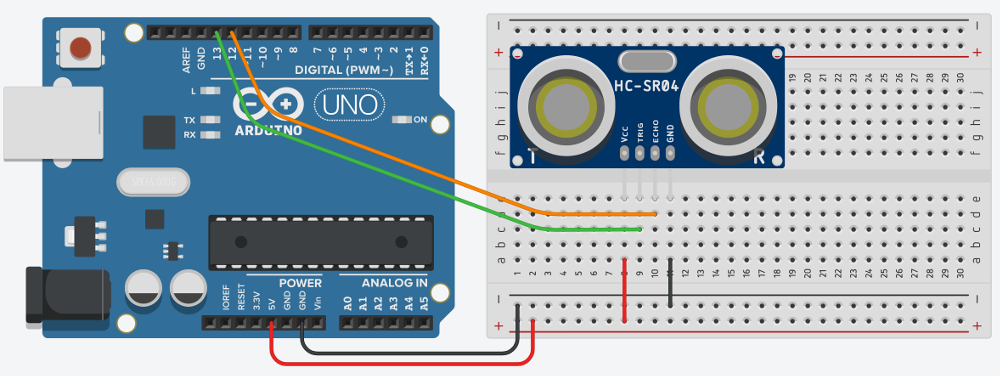
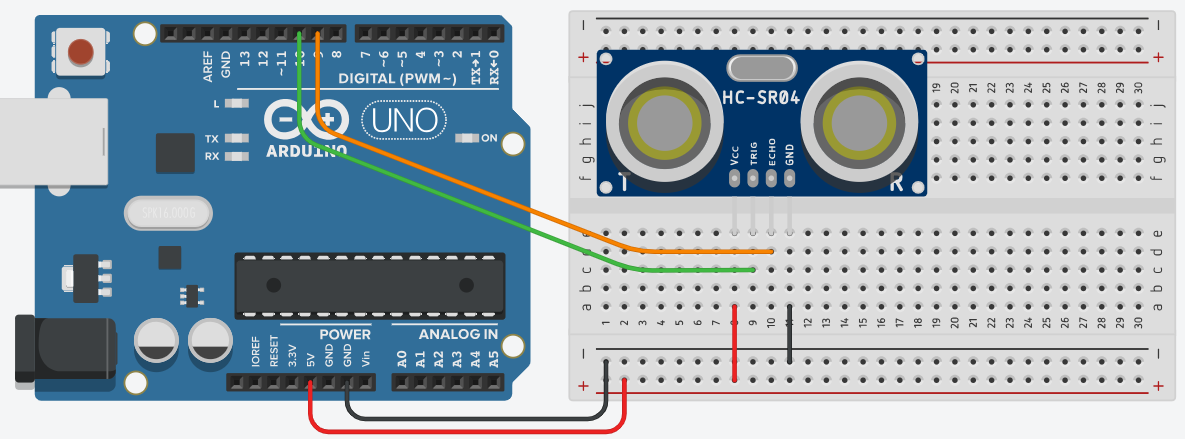
Updated the diagrams for project 2

Changed region(s): [[0.0, 0.0, 0.992, 0.9947]]

diff --git a/docs/workshop/Making-Things-with-Arduino-Workshop.md b/docs/workshop/Making-Things-with-Arduino-Workshop.md
@@ -465,7 +465,7 @@ The device will:
 
 The final circuit for this project will look like this:
 
-![](images/Project 2.2 - Range Sensor.png)
+![](images/Project 2-2 - Range Sensor.png)
 
 While building this project, we will also learn some new and important Arduino development skills.  We'll see how to use the Serial Monitor to see what's going on in our code while it's running on the Arduino.  We'll also learn how to use libraries (additional, 3rd party code) to simplify working with components like sensors.
 
